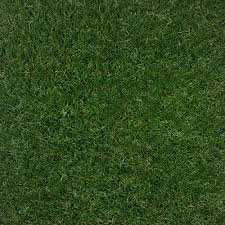
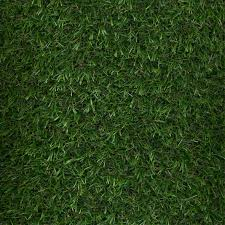
Update image and begin to add polar coordinates

diff --git a/src/app/mountain/mountain.component.ts b/src/app/mountain/mountain.component.ts
@@ -16,19 +16,19 @@ export class MountainComponent implements AfterContentInit, OnChanges {
    * Plane geometry parameters
    * The plane is always along the x and y axis.
    */
-  @Input() plane: {length: number; segments: number};
+  @Input() plane: { length: number; segments: number };
   /**
    * The camera is composed of the angle (y axis) spread of camera (fov),
    * the aspect which determines the spread in (x axis),
    * the near and far plane which determines what volume is included in the field of view,
    * and the position of the camera.
    */
-  @Input() camera: {position: IPosition, fov: number; aspect: number; near: number; far: number};
-  @Input() renderer: {alpha: boolean};
-  @Input() light: {position: IPosition};
-  three: {scene: THREE.Scene; camera: THREE.PerspectiveCamera; renderer: THREE.WebGLRenderer};
+  @Input() camera: { position: IPosition, fov: number; aspect: number; near: number; far: number };
+  @Input() renderer: { alpha: boolean };
+  @Input() light: { position: IPosition };
+  three: { scene: THREE.Scene; camera: THREE.PerspectiveCamera; renderer: THREE.WebGLRenderer };
   constructor() {
-    this.three = {scene: undefined, camera: undefined, renderer: undefined};
+    this.three = { scene: undefined, camera: undefined, renderer: undefined };
     this.images = [
       'assets/green0.jpeg',
       'assets/green1.jpeg',
@@ -61,17 +61,24 @@ export class MountainComponent implements AfterContentInit, OnChanges {
     centreMountain(geometry, 20000000, 20);
     const materials = createMesh(this.images);
     // randomMaterials(geometry, this.images.length);
-    materialHeightSegment(geometry, 0, 2, 0, 0.01);
-    materialHeightSegment(geometry, 3, 5, 0.01, 0.2);
-    materialHeightSegment(geometry, 5, 8, 0.2, 0.7);
-    materialHeightSegment(geometry, 9, 9, 0.7, 1);
-    const mesh = new THREE.Mesh(geometry, new THREE.MeshFaceMaterial( materials ));
-  //   const mesh = new THREE.Mesh(
-  //     new THREE.CubeGeometry( 1, 1, 1 ),
-  //     new THREE.MeshNormalMaterial()
-  // );
+    // materialHeightSegment(geometry, 0, 2, 0, 0.01);
+    // materialHeightSegment(geometry, 3, 5, 0.01, 0.2);
+    // materialHeightSegment(geometry, 5, 8, 0.2, 0.7);
+    // materialHeightSegment(geometry, 9, 9, 0.7, 1);
+
+    materialHeightAngleSegment(geometry, 2, 2, 0, 0.2, 0, 360);
+    // materialHeightAngleSegment(geometry, 1, 2, 0, 0.01, 90, 360);
+    // materialHeightSegment(geometry, 3, 5, 0.01, 0.2);
+    // materialHeightSegment(geometry, 5, 8, 0.2, 0.7);
+    // materialHeightSegment(geometry, 9, 9, 0.7, 1);
+
+    const mesh = new THREE.Mesh(geometry, new THREE.MeshFaceMaterial(materials));
+    //   const mesh = new THREE.Mesh(
+    //     new THREE.CubeGeometry( 1, 1, 1 ),
+    //     new THREE.MeshNormalMaterial()
+    // );
     // Create the renderer, camera and scene we will plot each frame.
-    this.three.renderer = new THREE.WebGLRenderer({alpha: this.renderer.alpha});
+    this.three.renderer = new THREE.WebGLRenderer({ alpha: this.renderer.alpha });
     this.three.renderer.setClearColor(0x333F47, 1);
     // this.three.renderer = new THREE.WebGLRenderer();
     this.three.renderer.setSize(this.el.clientWidth, this.el.clientHeight);
@@ -89,7 +96,7 @@ export class MountainComponent implements AfterContentInit, OnChanges {
   }
   onResize(event) {
     this.camera.aspect = this.el.clientWidth / this.el.clientHeight;
-    this.three.renderer.setSize( this.el.clientWidth , this.el.clientHeight );
+    this.three.renderer.setSize(this.el.clientWidth, this.el.clientHeight);
     this.three.camera.updateProjectionMatrix();
 
   }
@@ -111,6 +118,9 @@ export class MountainComponent implements AfterContentInit, OnChanges {
   }
 
 }
+function toRad (angle) {
+  return angle * (Math.PI / 180);
+}
 /**
  * Create Mountain from random plane geometry.
  * Geometry has a list of vertices which equate to x and y.
@@ -119,8 +129,8 @@ export class MountainComponent implements AfterContentInit, OnChanges {
  * The variance factor is the multiple of the variance 
  */
 
- function centreMountain(geometry: THREE.PlaneGeometry, normal: number, varianceFactor: number) {
-  const lastVertex = geometry.vertices[geometry.vertices.length - 1 ];
+function centreMountain(geometry: THREE.PlaneGeometry, normal: number, varianceFactor: number) {
+  const lastVertex = geometry.vertices[geometry.vertices.length - 1];
   const vara = Math.abs(lastVertex.x) * varianceFactor;
   const sigma = [[vara, 0], [0, vara]];
   const mu = [0, 0];
@@ -129,15 +139,15 @@ export class MountainComponent implements AfterContentInit, OnChanges {
     mu
   };
   const multiGaussian = new MultiGaussian(param);
-  const distribution = gaussian(0 , 30 * Math.abs(lastVertex.x));
+  const distribution = gaussian(0, 30 * Math.abs(lastVertex.x));
   for (let i = 0; i < geometry.vertices.length; i++) {
     const zIncrease = normal * multiGaussian.density([geometry.vertices[i].x, geometry.vertices[i].y]);
-    const newZ =  geometry.vertices[i].z + zIncrease;
+    const newZ = geometry.vertices[i].z + zIncrease;
     geometry.vertices[i].z = newZ;
     // console.log(`${i} x: ${geometry.vertices[i].x} y: ${geometry.vertices[i].y} z: ${geometry.vertices[i].z}`);
   }
 
- }
+}
 /**
  * Add random variance to vertices.
  */
@@ -161,7 +171,7 @@ function gaussianCentre(x: number, normal = 1, variance = 1, mean = 0) {
 
 function randomMaterials(geometry: THREE.PlaneGeometry, num: number) {
   for (let i = 0; i < geometry.faces.length; i++) {
-    geometry.faces[ i ].materialIndex = Math.floor(Math.random() * num);
+    geometry.faces[i].materialIndex = Math.floor(Math.random() * num);
     // geometry.faces[ i ].materialIndex = 0;
   }
 }
@@ -173,21 +183,49 @@ function randomMaterials(geometry: THREE.PlaneGeometry, num: number) {
 function materialHeightSegment(geometry: THREE.PlaneGeometry, minImage: number, maxImage: number, fracMin: number, fracMax: number) {
   const maxHeight = getMaxHeight(geometry) + 1; // Add small increase to get top.
   for (let i = 0; i < geometry.faces.length; i++) {
-    const face = geometry.faces[ i ];
-    const height = geometry.vertices[ face.a ].z;
+    const face = geometry.faces[i];
+    const vertexPos = geometry.vertices[face.a];
+    const height = vertexPos.z;
     // console.log(height);
-    if ( maxHeight * fracMin < height && maxHeight * fracMax > height ) {
-      geometry.faces[ i ].materialIndex = Math.floor(Math.random() * (maxImage - minImage)) + minImage;
+    if (maxHeight * fracMin < height && maxHeight * fracMax > height) {
+      geometry.faces[i].materialIndex = Math.floor(Math.random() * (maxImage - minImage)) + minImage;
     }
   }
+}
+
+function materialHeightAngleSegment(geometry: THREE.PlaneGeometry,
+  minImage: number, maxImage: number, fracMin: number, fracMax: number, phiMin: number, phiMax: number) {
+  const maxHeight = getMaxHeight(geometry) + 1; // Add small increase to get top.
+  for (let i = 0; i < geometry.faces.length; i++) {
+    const face = geometry.faces[i];
+    const vertexPos = geometry.vertices[face.a];
+    const height = vertexPos.z;
+    const spherical = cartesianToSpherical(vertexPos.x, vertexPos.y, vertexPos.z);
+    console.log(`Angles ${toRad(phiMin)} ${toRad(phiMax)} ${spherical.phi}`);
+    if (maxHeight * fracMin < height && maxHeight * fracMax > height && spherical.phi > toRad(phiMin) && spherical.phi < toRad(phiMax)) {
+      geometry.faces[i].materialIndex = Math.floor(Math.random() * (maxImage - minImage)) + minImage;
+    }
+  }
+}
+
+function cartesianToSpherical(x, y, z) {
+  const radius = Math.sqrt(Math.pow(x, 2) + Math.pow(y, 2) + Math.pow(z, 2));
+  const theta = Math.acos(z / radius);
+  const phi = Math.atan(y / x);
+  // console.log(`X/Y ${y} ${z} ${phi}`);
+  return {
+    radius,
+    theta,
+    phi
+  };
 }
 
 function getMaxHeight(geometry) {
   let temp = 0;
   for (let i = 0; i < geometry.faces.length; i++) {
-    const face = geometry.faces[ i ];
-    const height = geometry.vertices[ face.a ].z;
-    if (height > temp){
+    const face = geometry.faces[i];
+    const height = geometry.vertices[face.a].z;
+    if (height > temp) {
       temp = height;
     }
   }
@@ -197,8 +235,8 @@ function getMaxHeight(geometry) {
 function createMesh(images: Array<string>) {
   const materials = [];
   // for (let i = 0; i < images.length; i++) {
-    images.forEach(async (image) => {
-    const texture = await new THREE.TextureLoader().load( image );
+  images.forEach(async (image) => {
+    const texture = await new THREE.TextureLoader().load(image);
     const material = new THREE.MeshLambertMaterial({
       map: texture
     });

diff --git a/src/app/app.component.ts b/src/app/app.component.ts
@@ -12,7 +12,7 @@ export class AppComponent {
   light: {position: IPosition};
   renderer: {alpha: boolean};
   constructor() {
-    this.plane = {length: 800, segments: 200};
+    this.plane = {length: 800, segments: 100};
     const cameraPosition = {x: 0, y: 0, z: 1000};
     this.camera = {position: cameraPosition, fov: 75, aspect: 0.5, near: 0.1, far: 10000};
     this.light = {position: {x: 0, y: 0, z: 1000}};
